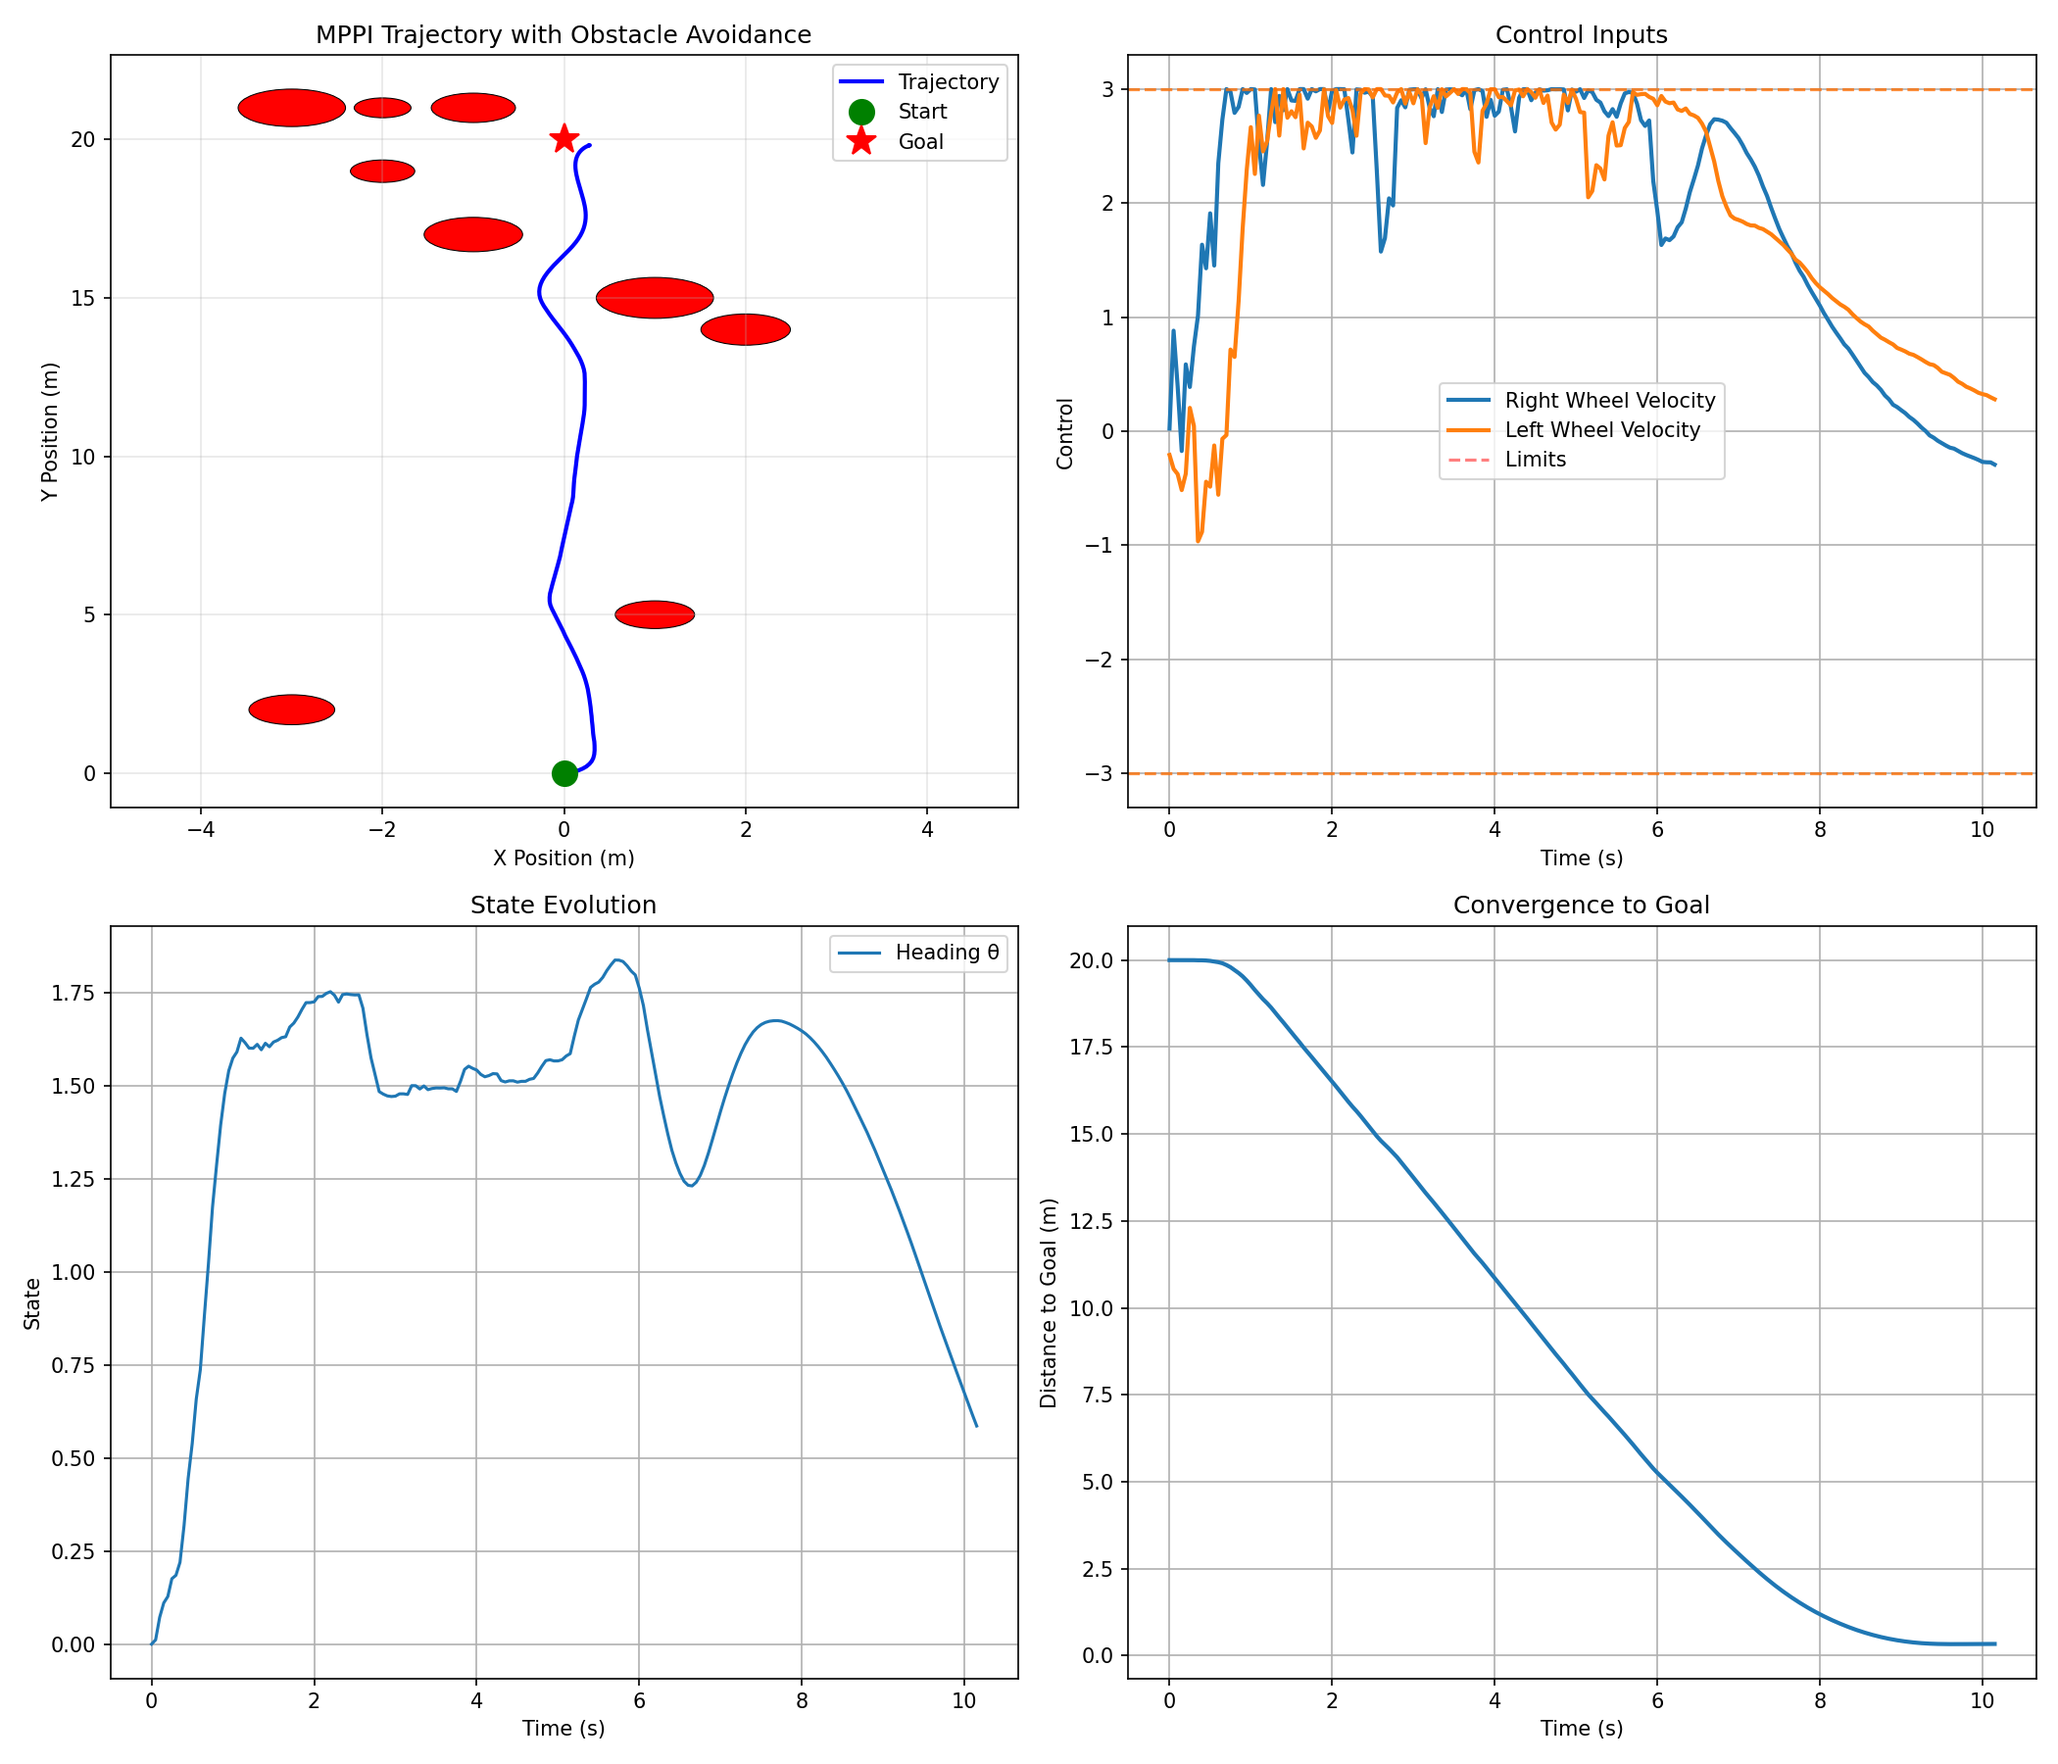
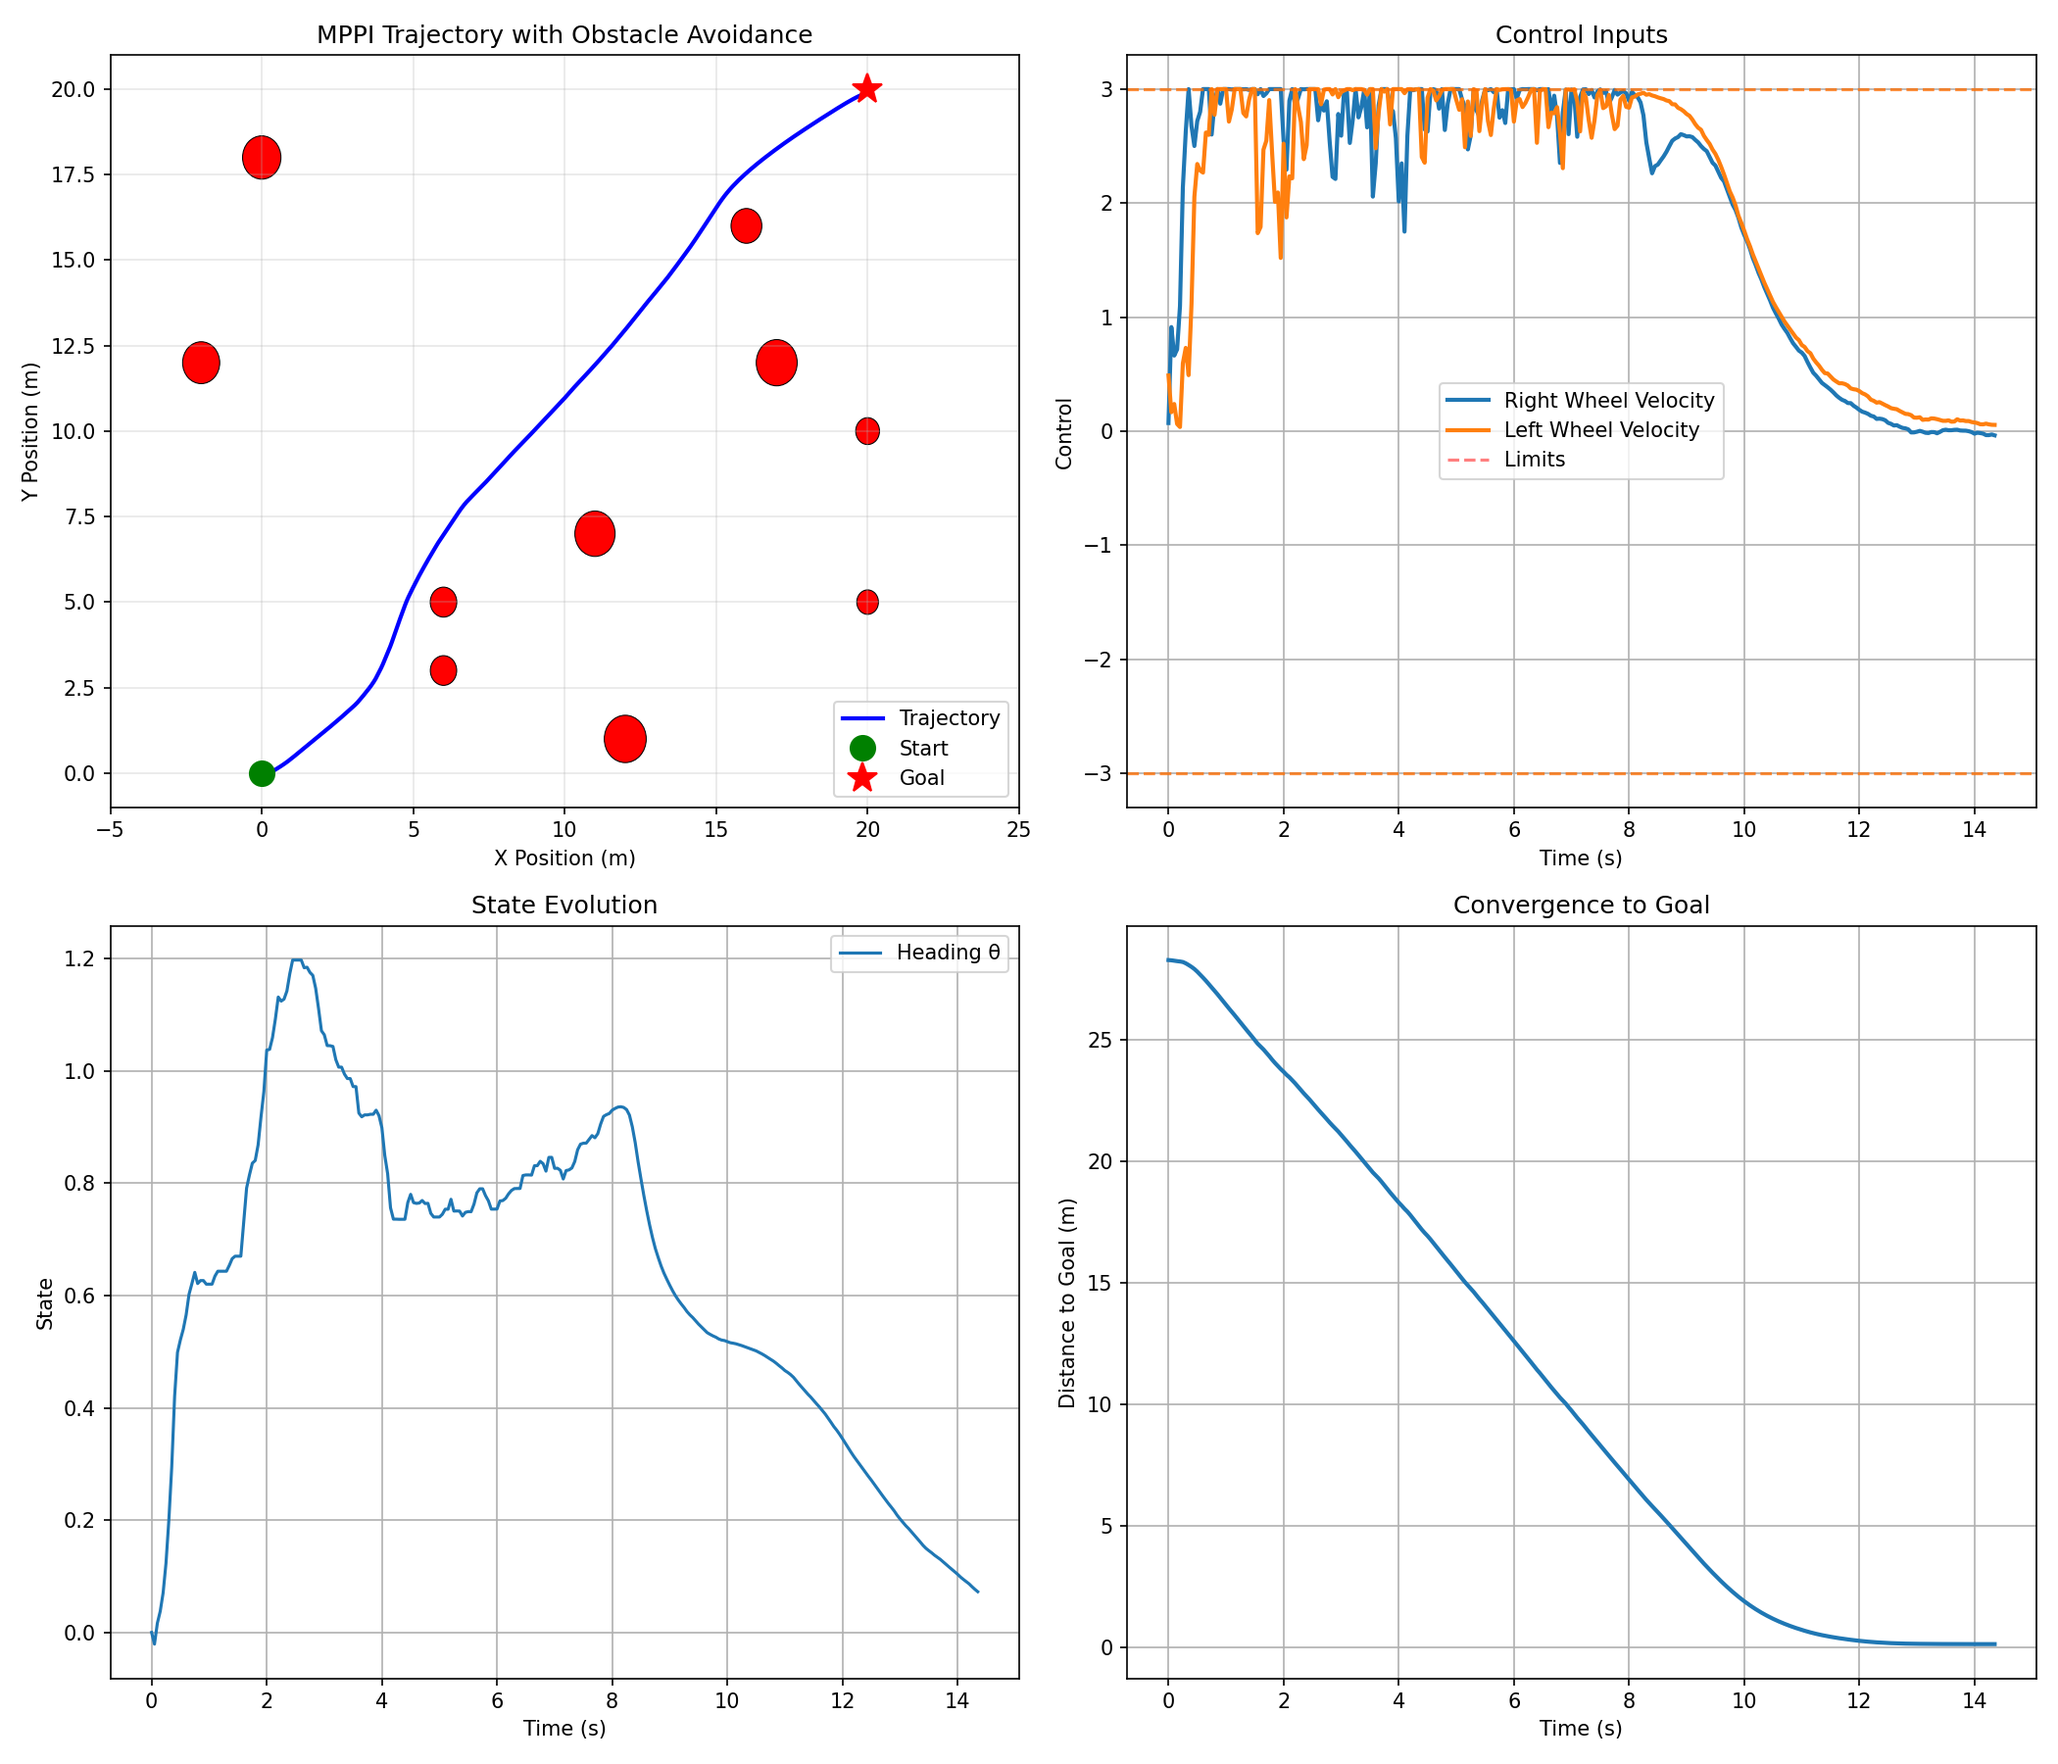
caught static chud obstacles trying to larp dynamics and monte carlo rollout max

diff --git a/controllers/mppi_terraneous.py b/controllers/mppi_terraneous.py
@@ -183,6 +183,12 @@ class MPPITerraneous:
         self._h_obs_spd   = np.zeros(N_c,      dtype=np.float32)
         self._h_obs_radii = np.zeros(N_c,      dtype=np.float32)
 
+        # ---- Static obstacle buffers (no MC rollouts — fixed positions only) ----
+        self.d_static_circle_pos   = cuda.device_array((N_c, 2), dtype=np.float32)
+        self.d_static_circle_radii = cuda.device_array(N_c,      dtype=np.float32)
+        self._h_static_circle_pos   = np.zeros((N_c, 2), dtype=np.float32)
+        self._h_static_circle_radii = np.zeros(N_c,      dtype=np.float32)
+
         # ---- MC obstacle rollout buffer: (R, max_obs, H, 2) ----
         self.d_obs_rollouts = cuda.device_array((R, N_c, H, 2), dtype=np.float32)
 
@@ -231,40 +237,34 @@ class MPPITerraneous:
         cuda.synchronize()
         t1 = time.perf_counter()
 
-        # ---- Obstacle MC rollouts ----
-        obstacles     = self.environment.get_obstacle_data()
-        circles       = obstacles['circles']
-        circle_count  = circles['count']
+        # ---- Split obstacles: dynamic (MC rollouts) vs static (fixed positions) ----
+        dynamic_obs = [obs for obs in self.environment.obstacles if obs.mode != ObstacleMode.STATIC]
+        static_obs  = [obs for obs in self.environment.obstacles if obs.mode == ObstacleMode.STATIC]
+        dyn_count   = len(dynamic_obs)
+        stat_count  = len(static_obs)
 
-        if circle_count > 0:
-            if circle_count > self.config.max_obstacles:
-                raise ValueError(
-                    f"Obstacle count {circle_count} exceeds max_obstacles="
-                    f"{self.config.max_obstacles}. Increase MPPIConfig.max_obstacles."
-                )
+        if dyn_count + stat_count > self.config.max_obstacles:
+            raise ValueError(
+                f"Obstacle count {dyn_count + stat_count} exceeds max_obstacles="
+                f"{self.config.max_obstacles}. Increase MPPIConfig.max_obstacles."
+            )
 
+        if dyn_count > 0:
             R = self.config.obs_pred_rollouts
-            N = circle_count
-
-            # Populate host-side staging buffers (no per-call numpy alloc)
-            for i, obs in enumerate(self.environment.obstacles):
+            for i, obs in enumerate(dynamic_obs):
                 self._h_obs_pos[i]   = obs.position
-                self._h_obs_vel[i]   = obs.velocity if obs.mode != ObstacleMode.STATIC else np.zeros(2, dtype=np.float32)
+                self._h_obs_vel[i]   = obs.velocity
                 self._h_obs_spd[i]   = float(np.linalg.norm(obs.velocity))
                 self._h_obs_radii[i] = obs.radius
-
             cuda.to_device(self._h_obs_pos,   to=self.d_obs_pos)
             cuda.to_device(self._h_obs_vel,   to=self.d_obs_vel)
             cuda.to_device(self._h_obs_spd,   to=self.d_obs_spd)
             cuda.to_device(self._h_obs_radii, to=self.d_obs_radii)
-
-            # Lazily (re)allocate obs RNG states if R×N has grown
-            n_rng = R * N
+            n_rng = R * dyn_count
             if self._obs_rng_states is None or n_rng > self._obs_rng_n_states:
                 seed = int(np.random.randint(1, 2**31))
                 self._obs_rng_states   = create_xoroshiro128p_states(n_rng, seed=seed)
                 self._obs_rng_n_states = n_rng
-
             xmin, xmax, ymin, ymax = self.environment.bounds
             blocks_mc = (n_rng + threads - 1) // threads
             obs_mc_rollout_kernel[blocks_mc, threads](
@@ -272,19 +272,32 @@ class MPPITerraneous:
                 self.d_obs_pos, self.d_obs_vel, self.d_obs_spd, self.d_obs_radii,
                 np.float32(xmin), np.float32(xmax),
                 np.float32(ymin), np.float32(ymax),
-                self.d_obs_rollouts, R, N, self.config.horizon,
+                self.d_obs_rollouts, R, dyn_count, self.config.horizon,
                 np.float32(self.config.dt),
                 np.float32(self.config.obs_direction_change_prob),
             )
             cuda.synchronize()
             t2 = time.perf_counter()
-
             d_circle_pred  = self.d_obs_rollouts
             d_circle_radii = self.d_obs_radii
         else:
             R = 0
             d_circle_pred  = cuda.to_device(np.zeros((1, 1, 1, 2), dtype=np.float32))
             d_circle_radii = cuda.to_device(np.zeros(1,             dtype=np.float32))
+
+        if stat_count > 0:
+            for i, obs in enumerate(static_obs):
+                self._h_static_circle_pos[i]   = obs.position
+                self._h_static_circle_radii[i] = obs.radius
+            cuda.to_device(self._h_static_circle_pos,   to=self.d_static_circle_pos)
+            cuda.to_device(self._h_static_circle_radii, to=self.d_static_circle_radii)
+            d_static_pos   = self.d_static_circle_pos
+            d_static_radii = self.d_static_circle_radii
+        else:
+            d_static_pos   = self.d_dummy_vec2
+            d_static_radii = self.d_dummy_float1
+
+        obstacles = self.environment.get_obstacle_data()
 
         # ---- Rectangles ----
         rects      = obstacles['rectangles']
@@ -326,7 +339,8 @@ class MPPITerraneous:
         mc_cost_and_min_dist_terrain_kernel[blocks, threads](
             self.d_trajectories, self.d_samples, self.d_costs, self.d_min_dists,
             self.d_x0, self.d_x_goal, self.d_Q_diag, self.d_R_diag, self.d_Qf_diag,
-            d_circle_pred, d_circle_radii, int(circle_count), R,
+            d_circle_pred, d_circle_radii, int(dyn_count), R,
+            d_static_pos, d_static_radii, int(stat_count),
             d_rect_pos, d_rect_widths, d_rect_heights, d_rect_angles, int(rect_count),
             d_poly_verts, d_poly_starts, d_poly_lengths, int(poly_count),
             self.config.d_safe, self.config.Q_obs, robot_radius,
@@ -496,7 +510,8 @@ class MPPITerraneous:
             'd_Q_diag', 'd_R_diag', 'd_Qf_diag', 'd_params',
             'd_u_min', 'd_u_max', 'd_x0', 'd_x_goal', 'd_sigma', 'd_u_nominal',
             'd_obs_pos', 'd_obs_vel', 'd_obs_spd', 'd_obs_radii',
-            'd_obs_rollouts', 'd_dummy_vec2', 'd_dummy_float1', 'd_dummy_int1',
+            'd_obs_rollouts', 'd_static_circle_pos', 'd_static_circle_radii',
+            'd_dummy_vec2', 'd_dummy_float1', 'd_dummy_int1',
         )
 
         for n in names:

diff --git a/controllers/cuda_kernels.py b/controllers/cuda_kernels.py
@@ -525,11 +525,12 @@ def mc_cost_and_min_dist_terrain_kernel(
         trajectories, samples, costs, min_dists,
         x0, x_goal, Q_diag, R_diag, Qf_diag,
         circle_pred, circle_radii, num_circles, num_obs_rollouts,
+        static_circle_positions, static_circle_radii, num_static_circles,
         rect_positions, rect_widths, rect_heights, rect_angles, num_rects,
         poly_vertices, poly_starts, poly_lengths, num_polys,
         d_safe, Q_obs, robot_radius,
         num_samples, horizon, state_dim, control_dim, bounds,
-        traversability, trav_rows, trav_cols, 
+        traversability, trav_rows, trav_cols,
         origin_x, origin_y, cell_size):
     
     # Cost Computation via Parallel Computing on order O(RTP) ~ 10^3 computations per thread
@@ -561,13 +562,23 @@ def mc_cost_and_min_dist_terrain_kernel(
                 for c in range(num_circles):
                     obs_px = circle_pred[r, c, t, 0]
                     obs_py = circle_pred[r, c, t, 1]
-                    dist   = distance_to_circle(px, py, obs_px, obs_py, circle_radii[c])
+                    dist = distance_to_circle(px, py, obs_px, obs_py, circle_radii[c])
                     if dist < d_safe + 0.25:
                         obs_cost += Q_obs * (d_safe - dist + robot_radius)
                     if dist < min_d:
                         min_d = dist
             if num_obs_rollouts > 0:
                 cost += obs_cost / num_obs_rollouts
+
+            # Deterministic static circle cost (fixed positions, no MC rollouts)
+            for c in range(num_static_circles):
+                obs_px = static_circle_positions[c, 0]
+                obs_py = static_circle_positions[c, 1]
+                dist = distance_to_circle(px, py, obs_px, obs_py, static_circle_radii[c])
+                if dist < d_safe:
+                    cost += Q_obs * (d_safe - dist + robot_radius)
+                if dist < min_d:
+                    min_d = dist
 
             # Deterministic rectangle cost + clearance
             for r in range(num_rects):

diff --git a/src/staticMPPI_test.py b/src/staticMPPI_test.py
@@ -14,16 +14,19 @@ import os
 # ============================================================================
 
 # Create environment with obstacles
-corridor_width = 4.0
-env = StaticEnvironment(bounds=(-corridor_width, corridor_width, -4, 24), robot_radius=0.5)
+# corridor_width = 4.0
+env = StaticEnvironment(bounds=(-4, 24, -4, 24), robot_radius=0.5)
+goalpos = np.array([20.0, 20.0])
 
 # Add moving circular obstacles
 rng = np.random.default_rng(seed=42)
-for i in range(0,10):
+for i in range(0,30):
     env.add_circle_obstacle(
-        position=[np.random.randint(-corridor_width+1, corridor_width-1), np.random.randint(1.0, 22.0)], 
+        position=[np.random.randint(-4+1, 24-1), np.random.randint(1.0, 22.0)], 
         radius=0.3+0.4*np.random.rand()
     )
+    if np.array_equal(env.obstacles[i].position, goalpos):
+        env.obstacles[i].position += np.array([0.0, 1.0])  # Shift obstacle if it coincides with the goal
 
 # Configure MPPI
 
@@ -45,7 +48,7 @@ if state_dim == 4:
     ctrl_label_1 = "Acceleration"
     ctrl_label_2 = "Steering Angle"
     x0 = np.array([0.0, 0.0, np.pi/2, 0.0])
-    x_goal = np.array([0.0, 20.0, np.pi/2, 0.0])
+    x_goal = np.array([20.0, 20.0, np.pi/2, 0.0])
 
 else:
     Q_mod=np.diag([7.0, 7.0, 1.5])
@@ -57,7 +60,7 @@ else:
     ctrl_label_1 = "Left Wheel Velocity"
     ctrl_label_2 = "Right Wheel Velocity"
     x0 = np.array([0.0, 0.0, 0.0])
-    x_goal = np.array([0.0, 20.0, 0.0])
+    x_goal = np.array([20.0, 20.0, 0.0])
 
 max_deg = 72.0 # maximum steering angle in degrees
 config = MPPIConfig(
